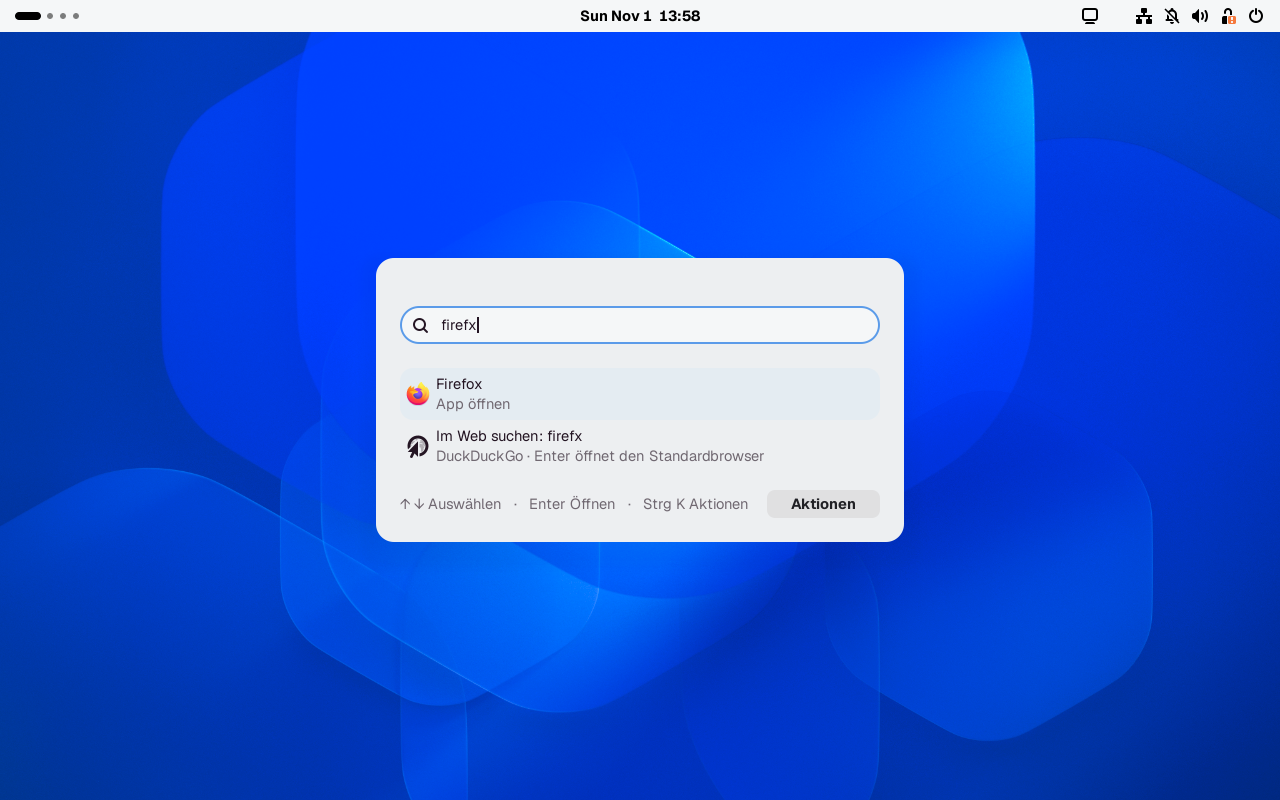
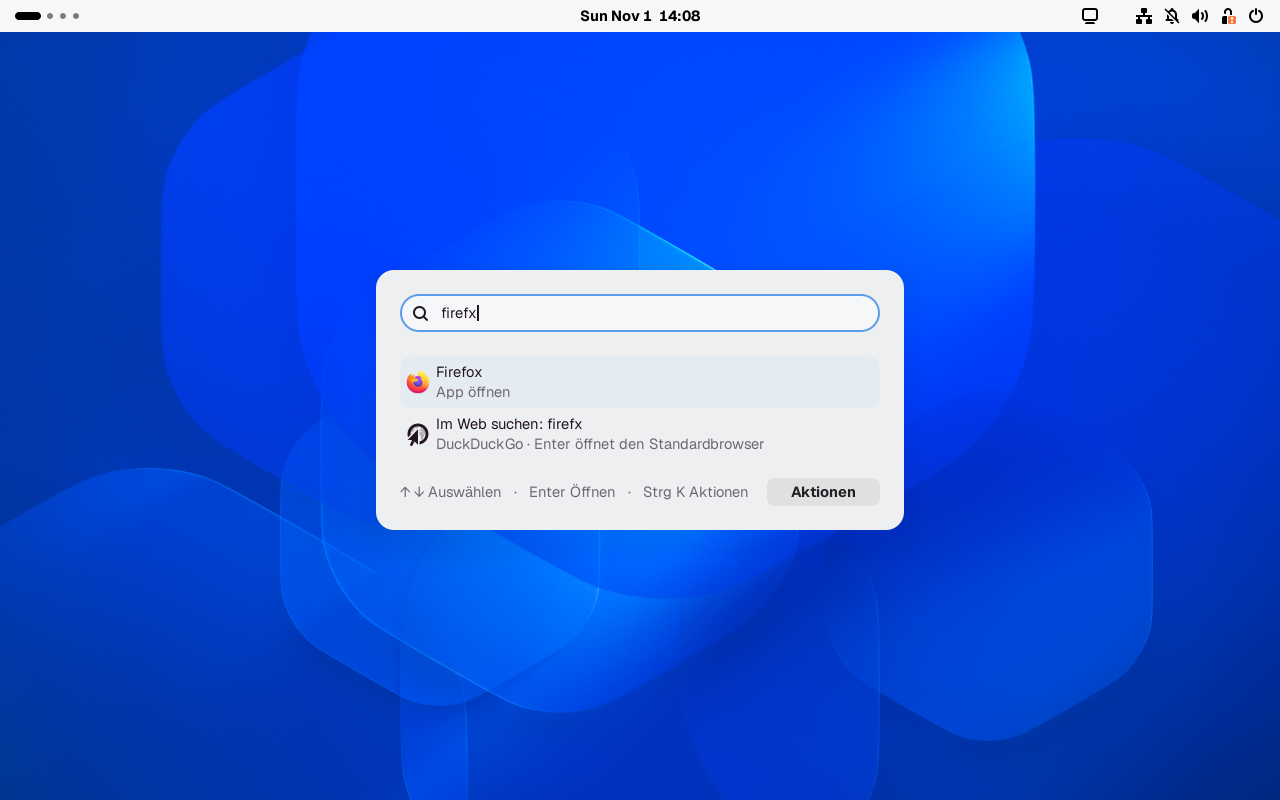
Equalize search field top and side insets

Changed region(s): [[0.2812, 0.375, 0.7188, 0.6875], [0.2812, 0.3125, 0.7188, 0.3438]]

diff --git a/extension/search.js b/extension/search.js
@@ -51,10 +51,11 @@ export class LightSearch {
         this._dialog._lightbox?.destroy();
         this._dialog._lightbox = null;
         this._dialog.buttonLayout.hide();
-        this._dialog.contentLayout.set_style(`max-width: ${SEARCH_WIDTH}px;`);
+        // Drop the stacked native content/overview top insets in this compact dialog.
+        this._dialog.contentLayout.set_style(`max-width: ${SEARCH_WIDTH}px; padding-top: 0;`);
         this._dialog.contentLayout.width = SEARCH_WIDTH;
         this._dialog.contentLayout.add_style_class_name('message-dialog-content');
-        this._entry = new St.Entry({style_class: 'search-entry', can_focus: true,
+        this._entry = new St.Entry({style_class: 'search-entry', style: 'margin-top: 0;', can_focus: true,
             hint_text: HINT, x_expand: true});
         this._entry.set_primary_icon(new St.Icon({icon_name: 'edit-find-symbolic',
             style_class: 'search-entry-icon', icon_size: 16}));
